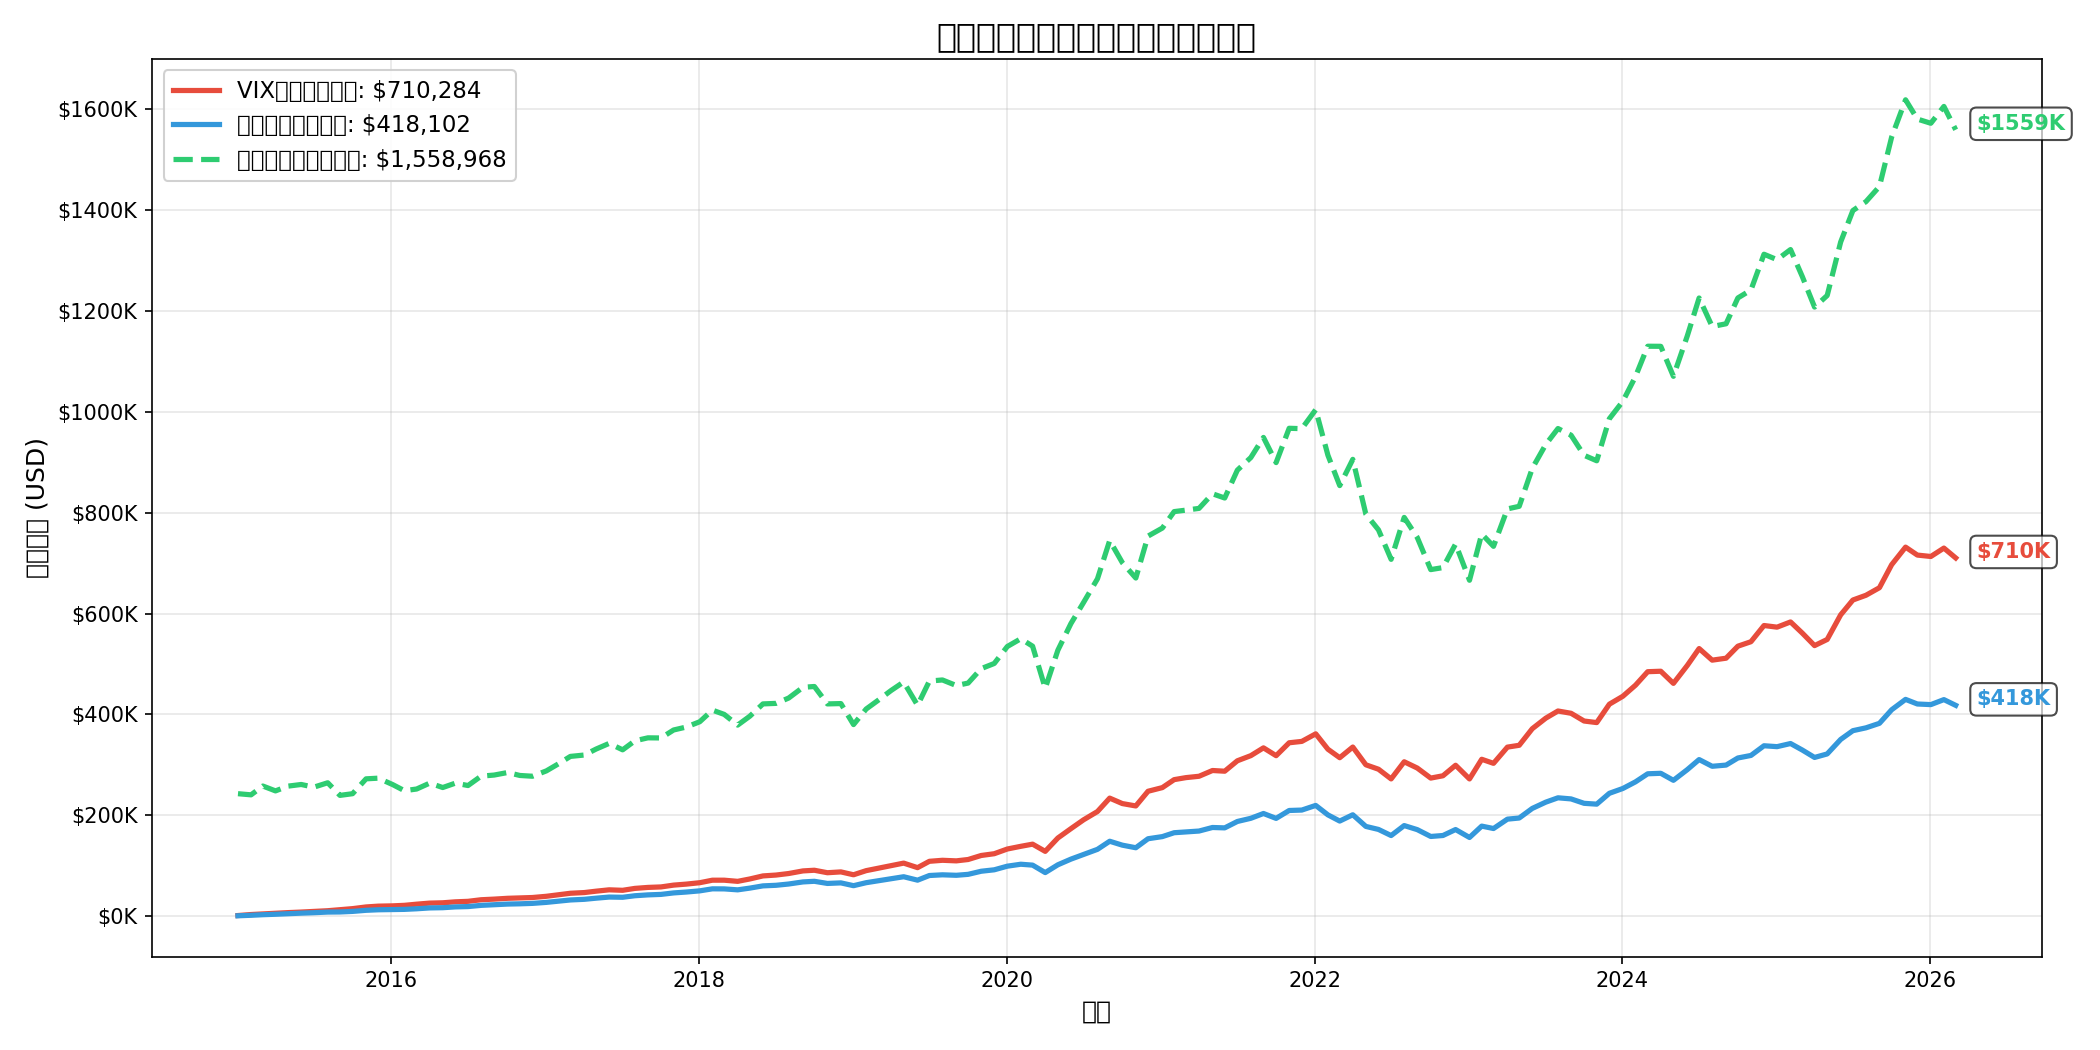
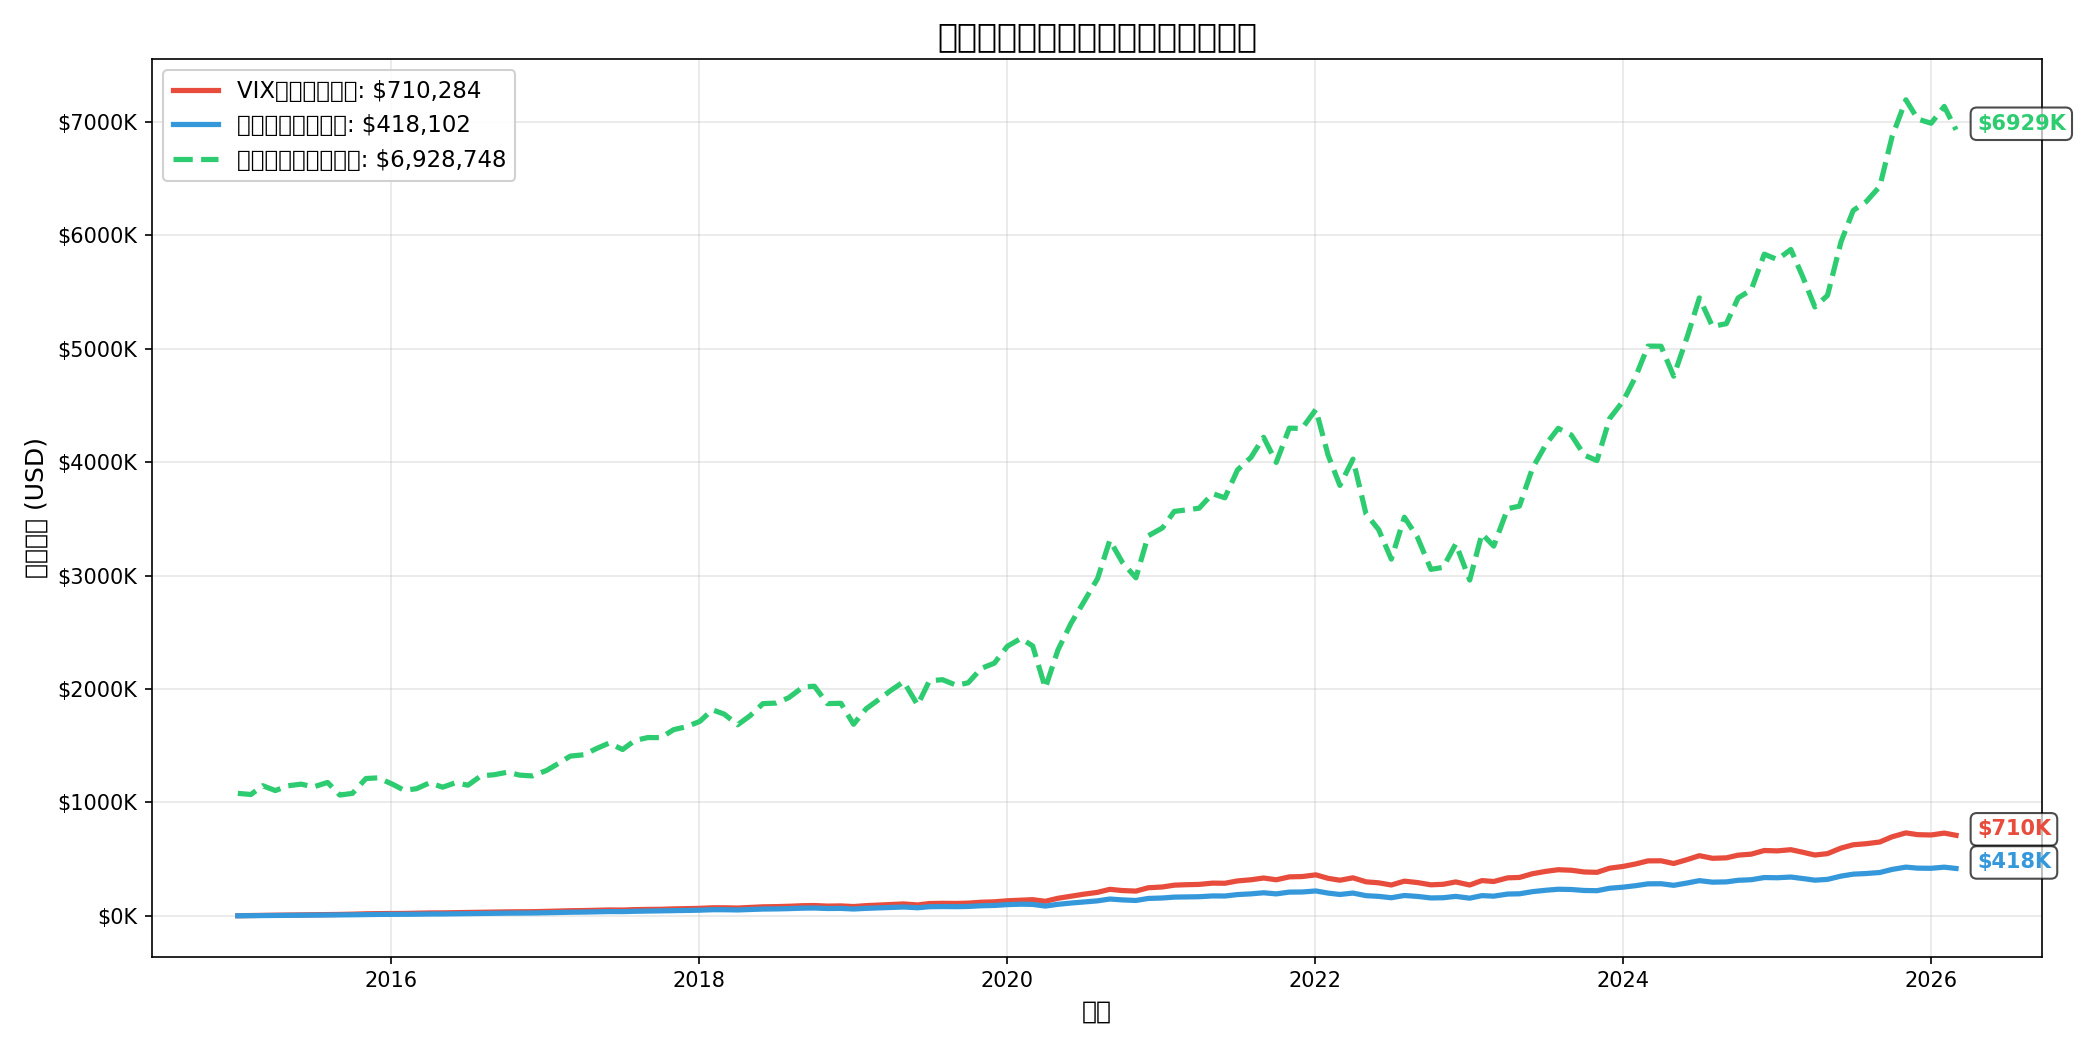
自动更新 VIX-纳斯达克100定投回测报告 [2026-03-30]

diff --git a/05-策略框架/VIX-纳斯达克100定投策略/backtest_report.md b/05-策略框架/VIX-纳斯达克100定投策略/backtest_report.md
@@ -1,6 +1,6 @@
 # VIX-纳斯达克100定投策略回测报告
 
-> **生成时间**: 2026-03-30 01:33
+> **生成时间**: 2026-03-30 01:44
 > **数据范围**: 2015-01-01 至今
 > **标的**: QQQ (Invesco QQQ Trust - 纳斯达克100 ETF)
 > **恐慌指数**: ^VIX (CBOE Volatility Index)
@@ -14,17 +14,17 @@
 
 | 对比维度 | VIX增强定投 | 普通定投+理财 |
 |----------|-------------|---------------|
-| **最终总资产** | **$1,706,502.22** | $1,540,480.65 |
-| 股市持仓价值 | $710,283.77 | $418,102.10 |
+| **最终总资产** | **$1,706,502.23** | $1,540,480.65 |
+| 股市持仓价值 | $710,283.78 | $418,102.10 |
 | 现金余额 | $996,218.44 | $1,122,378.55 |
 | 累计投入股市 | $243,000.00 | $135,000.00 |
 | 累计投入差额 | +$108,000.00 | - |
-| **总资产收益** | **+602.26%** | +1041.10% |
+| **总资产收益** | **+58.01%** | +42.64% |
 | 最终资金效率 | VIX更优 | - |
 
 > 💡 **结论**：
 > - VIX策略多投入 **$108,000** 到股市
-> - 最终总资产 多赚 **$166,021.56**
+> - 最终总资产 多赚 **$166,021.57**
 > - 额外投入的资金 产生正收益
 
 ---
@@ -67,12 +67,12 @@
 
 | 指标 | VIX增强定投 | 普通定投+理财 | 一次性投入 |
 |------|-------------|---------------|------------|
-| **最终总资产** | **$1,706,502.22** | $1,540,480.65 | $1,558,967.92 |
-| 股市持仓价值 | $710,283.77 | $418,102.10 | $1,558,967.92 |
+| **最终总资产** | **$1,706,502.23** | $1,540,480.65 | $6,928,748.01 |
+| 股市持仓价值 | $710,283.78 | $418,102.10 | $6,928,748.01 |
 | 现金余额 | $996,218.44 | $1,122,378.55 | $0.00 |
-| 累计投入股市 | $243,000.00 | $135,000.00 | $243,000.00 |
-| 总资产收益率 | +602.26% | +1041.10% | +0.00% |
-| 年化收益率 (CAGR) | +19.08% | +24.37% | +0.00% |
+| 累计投入股市 | $243,000.00 | $135,000.00 | $1,080,000.00 |
+| 总资产收益率 | +58.01% | +42.64% | +541.55% |
+| 年化收益率 (CAGR) | +4.18% | +3.23% | +18.12% |
 | 最大回撤 | -11.09% | -6.82% | -35.12% |
 | 夏普比率 | 0.81 | 0.81 | 0.81 |
 | 平均持仓成本 | $208.04 | $196.34 | $94.78 |
@@ -83,7 +83,7 @@
 - **触发加仓月数** (倍数>1): 90 个月 (66.7%)
 - **极度恐慌月数** (5倍): 9 个月 (6.7%)
 - **累计投入差额**: $108,000.00（相比普通定投多投入）
-- **累计理财收益（普通定投）**: $1,122,378.55
+- **累计理财收益（普通定投）**: $177,378.55
 
 ---
 
@@ -109,7 +109,7 @@
 ## 关键结论
 
 1. **相同资金池对比**：在 11.2 年回测期内，**VIX增强定投** 的最终总资产更高，领先 **10.78%**。
-2. **VIX策略有效性**：VIX策略比普通定投多投入 $108,000 到股市，最终多赚 $166,021.56，说明恐慌时加仓有效提升了整体收益。
+2. **VIX策略有效性**：VIX策略比普通定投多投入 $108,000 到股市，最终多赚 $166,021.57，说明恐慌时加仓有效提升了整体收益。
 3. **现金利用率**：VIX策略最终现金占比 58.4%，普通定投现金占比 72.9%。VIX策略资金利用率更高。
 4. **风险控制**：VIX策略最大回撤 (-11.09%) 小于普通定投 (-6.82%)，说明低位摊薄成本有效降低了波动。
 
